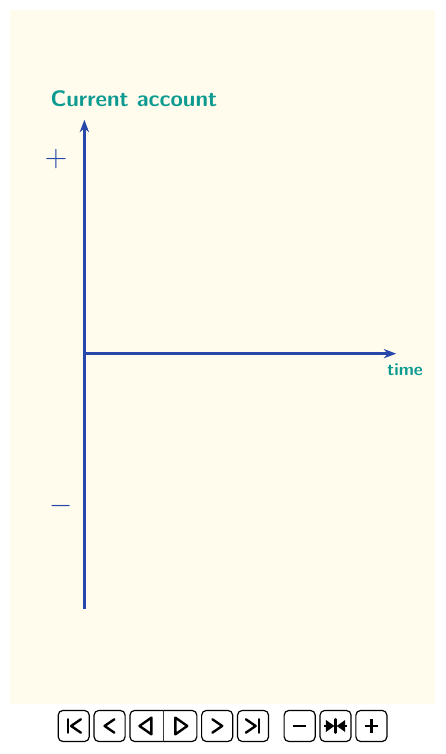
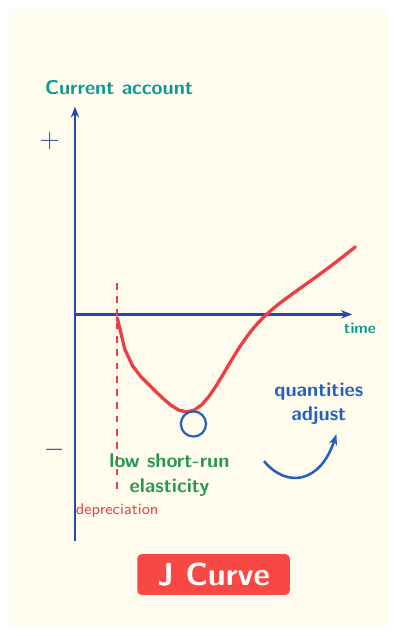
Correct J-curve timing logic

diff --git a/skills/tikz-diagrams/templates/delayed_adjustment_path.tex b/skills/tikz-diagrams/templates/delayed_adjustment_path.tex
@@ -6,6 +6,9 @@
 % Template: delayed adjustment path / J-curve
 % Use for trade-balance J-curves, campaign wear-in, adoption lags,
 % drawdown-and-recovery paths, and policy response lags.
+% For trade/current-account J-curves, keep the timing order explicit:
+% baseline before depreciation, immediate price-effect deterioration,
+% trough after the event, then quantity adjustment and recovery.
 \begin{tikzpicture}[
   font=\sffamily,
   >=Stealth,
@@ -16,23 +19,23 @@
   lab/.style={font=\scriptsize, align=center},
   phase/.style={font=\scriptsize, align=center, text=teal!60!black}
 ]
-\path[use as bounding box] (-0.75,-1.0) rectangle (8.2,4.7);
+\path[use as bounding box] (-0.75,-1.05) rectangle (8.75,5.2);
 
 \draw[axis] (0,0) -- (7.7,0) node[below left=2pt, lab] {time};
 \draw[axis] (0,-0.55) -- (0,4.25) node[above, lab] {outcome};
-\draw[base] (0,2.15) -- (7.45,2.15) node[right, lab] {baseline};
+\draw[base] (0,2.15) -- (7.20,2.15) node[right, lab] {baseline};
 \draw[event] (1.8,-0.35) -- (1.8,4.0);
 \node[lab, text=red!65!black] at (1.8,-0.65) {intervention};
 
 \draw[pathline]
   (0.4,2.15)
-  .. controls (1.1,2.12) and (1.55,2.1) .. (1.8,2.1)
-  .. controls (2.2,1.15) and (3.1,0.75) .. (3.8,1.05)
-  .. controls (4.8,1.45) and (5.8,2.45) .. (7.05,3.35);
+  .. controls (1.0,2.15) and (1.45,2.15) .. (1.8,2.15)
+  .. controls (2.02,1.45) and (2.75,0.75) .. (3.8,1.05)
+  .. controls (4.8,1.45) and (5.8,2.40) .. (7.05,3.25);
 
 \fill[teal!70!black] (3.8,1.05) circle (1.4pt);
-\node[phase] at (3.35,0.35) {short-run\\friction};
-\node[phase] at (6.25,3.75) {recovery /\\catch-up};
-\node[lab, anchor=west] at (7.08,3.35) {new path};
+\node[phase] at (3.35,0.35) {low short-run\\elasticity};
+\node[phase] at (6.00,3.55) {quantity\\adjustment};
+\node[lab, anchor=west] at (7.08,3.25) {new path};
 \end{tikzpicture}
 \end{document}

diff --git a/skills/tikz-diagrams/references/animation_workflow.md b/skills/tikz-diagrams/references/animation_workflow.md
@@ -99,7 +99,7 @@ Treat these as behavior and design patterns, not as code to copy wholesale. Pres
 - **Hanoi or recursive-state pattern**: adapt to discrete transfers among states. Keep the state grammar clean; do not add unrelated metrics into the same render.
 - **Projectile or trajectory pattern**: adapt to a moving path relative to a target, limit, threshold, or reference line.
 - **Animated-distribution pattern**: adapt to changing parameters, uncertainty, policy simulations, or sampling distributions. Prefer direct labels and external captions.
-- **Delayed-adjustment / J-curve pattern**: adapt to trade-balance J-curves, campaign wear-in, product adoption, process learning curves, drawdown-and-recovery paths, or policy response lags. Keep the intervention date, baseline, and time axis fixed; reveal the path smoothly only when the lag, reversal, or catch-up is the point. Use holds at the intervention, trough/overshoot, and final state.
+- **Delayed-adjustment / J-curve pattern**: adapt to trade-balance J-curves, campaign wear-in, product adoption, process learning curves, drawdown-and-recovery paths, or policy response lags. Keep the intervention date, baseline, and time axis fixed; reveal the path smoothly only when the lag, reversal, or catch-up is the point. For current-account J-curves after depreciation, show the event before deterioration, then the trough, then quantity-adjustment recovery. Use holds at the intervention, trough/overshoot, and final state.
 - **Paced-cycle pattern**: adapt to business cycles, adoption cycles, inventory loops, risk cycles, or phase diagrams where the background context stays fixed and a highlighted state travels around the loop. Use `templates/animation_paced_cycle.tex` as a starting point, and hold named states longer than in-between transitions.
 - **Smooth-cycle-fill pattern**: adapt paced-cycle diagrams when the viewer should perceive continuous traversal or accumulated progress around the loop. Use `templates/animation_smooth_cycle_fill.tex`; keep explanatory labels stable within regimes and let the marker/path move smoothly.
 - **Threshold-corridor trajectory pattern**: adapt to belief spaces, survival regions, feasible sets, safety corridors, control limits, or policy bands. Keep regions and thresholds fixed; reveal the trajectory smoothly; only reveal exit/failure markers after the crossing; hold the terminal crossing state long enough to read.

diff --git a/README.md b/README.md
@@ -241,18 +241,18 @@ Use this path when a rough drawing encodes timing. The useful animation is the d
 |---|---|
 | <img src="presentation/assets/j_curve_source_share.png" alt="J-curve sketch input" width="220"> | <img src="presentation/assets/j_curve_animation.gif" alt="Animated J-curve delayed adjustment" width="300"> |
 
-Input context: a TikTok-style current-account J-curve sketch. After a devaluation or policy event, the current account initially deteriorates below baseline before recovering and improving over time.
+Input context: a TikTok-style current-account J-curve sketch. After depreciation, the current account can deteriorate immediately because import values rise before quantities adjust. Over time, export and import quantities respond; the long-run path improves if the elasticity condition is strong enough.
 
-**What to notice:** the animation reveals the event marker, trough, recovery, and final improvement. Longer interpretation belongs in surrounding text or a QA note.
+**What to notice:** the animation now puts the depreciation event before the deterioration, then reveals the trough and quantity-adjustment recovery. Longer interpretation belongs in surrounding text or a QA note.
 
 Skill decision: `teaching` animation | family: `delayed-adjustment path / J-curve` | math review: `schematic` | outputs: hand-drawn-style GIF preview.
 
-Checks to expect: delayed-adjustment path, event timing, baseline, trough, recovery, externalized caption.
+Checks to expect: delayed-adjustment path, event timing, immediate price-effect deterioration, trough after the event, gradual recovery, externalized caption.
 
 Prompt pattern:
 
 ```text
-Use the tikz-diagrams skill to turn this hand-drawn J-curve sketch into a hand-drawn-style animated TikZ figure. Preserve the rough classroom-board feel, but make the axes, event marker, trough, recovery path, and final improvement readable. Render a GIF preview and include a QA note.
+Use the tikz-diagrams skill to turn this hand-drawn J-curve sketch into a hand-drawn-style animated TikZ figure. Preserve the rough classroom-board feel, but make the axes, depreciation event, immediate current-account deterioration, trough, and quantity-adjustment recovery path readable. Render a GIF preview and include a QA note.
 ```
 
 ### 6. Rough Sketch To Exact AD-AS Animation

diff --git a/skills/tikz-diagrams/references/math_logic_checks.md b/skills/tikz-diagrams/references/math_logic_checks.md
@@ -32,7 +32,7 @@ Inspect rendered images and animation frames for logic as well as layout:
 
 - **AD-AS / supply-demand**: Define which curves are fixed and which shift. Equilibria should lie at curve intersections. Output, price, or quantity guide lines should be generated from those intersections when exact claims are made.
 - **Multiplier or comparative statics**: State the baseline, shock, rounds or shifts, and final effect. If the multiplier size is shown by a bracket, compute it from the plotted coordinates or call the figure schematic.
-- **J-curve / delayed adjustment**: Keep the event date, baseline, trough, recovery, and final direction consistent. Avoid implying a measured recovery path when only the qualitative pattern is known.
+- **J-curve / delayed adjustment**: Keep the event date, baseline, immediate response, trough, recovery, and final direction consistent. For current-account or trade-balance J-curves after depreciation, the event should precede the deterioration; the short-run price effect can worsen the current account before quantities adjust. Avoid implying a measured recovery path or unconditional long-run improvement when only the qualitative pattern is known.
 - **Threshold / corridor trajectories**: Region labels must match inequalities. Failure, exit, or crossing markers should appear only after the path crosses the relevant boundary.
 - **Distributions and parameter sweeps**: Density curves should remain normalized when treated as exact. Mean, variance, skew, or tail changes must match the parameter movement shown.
 - **Game trees**: Chance probabilities should sum to one at each information set. Information sets must connect nodes that are indistinguishable to the player. Payoff tuples, player order, and branch labels must be consistent across frames.
